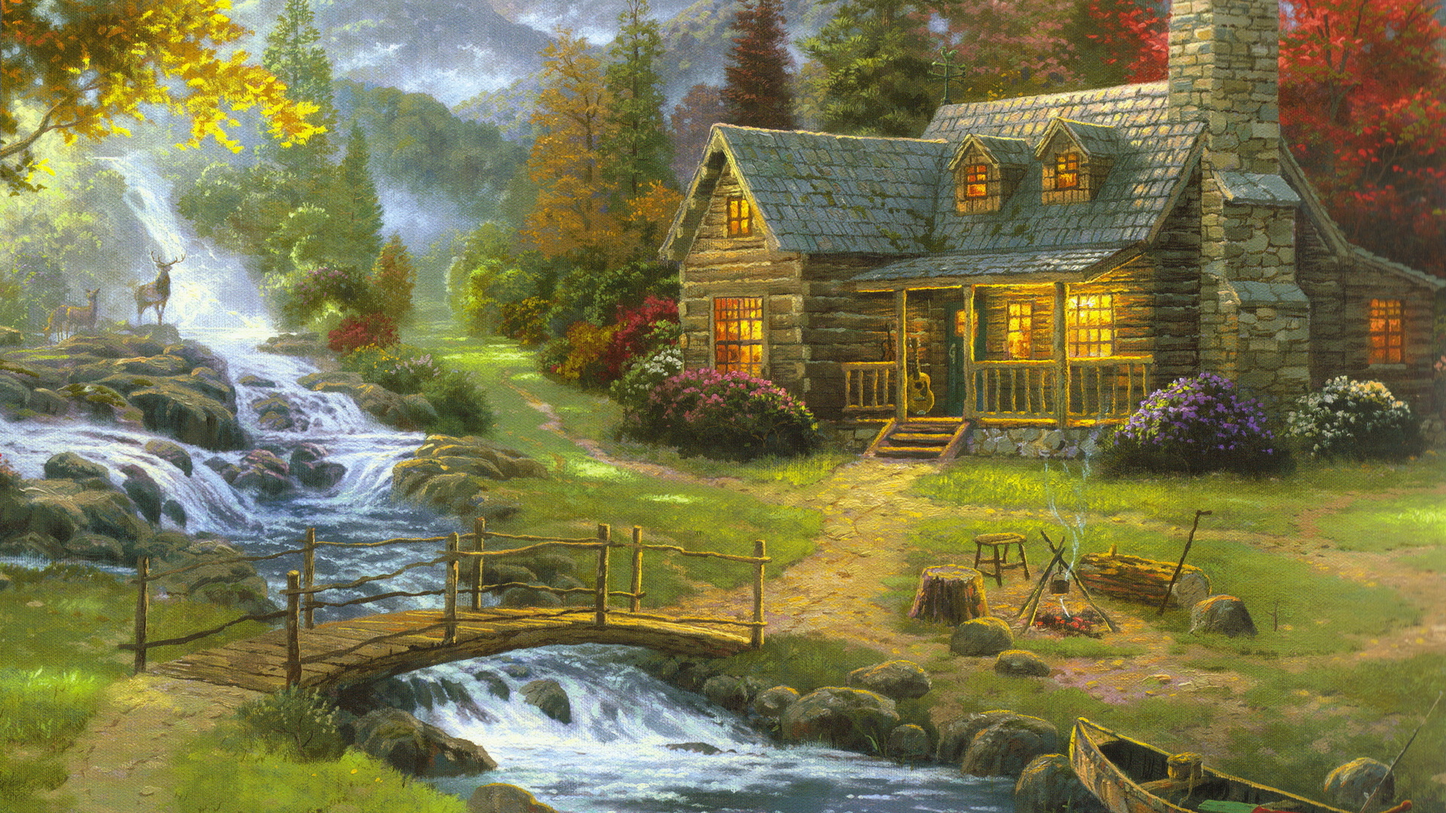
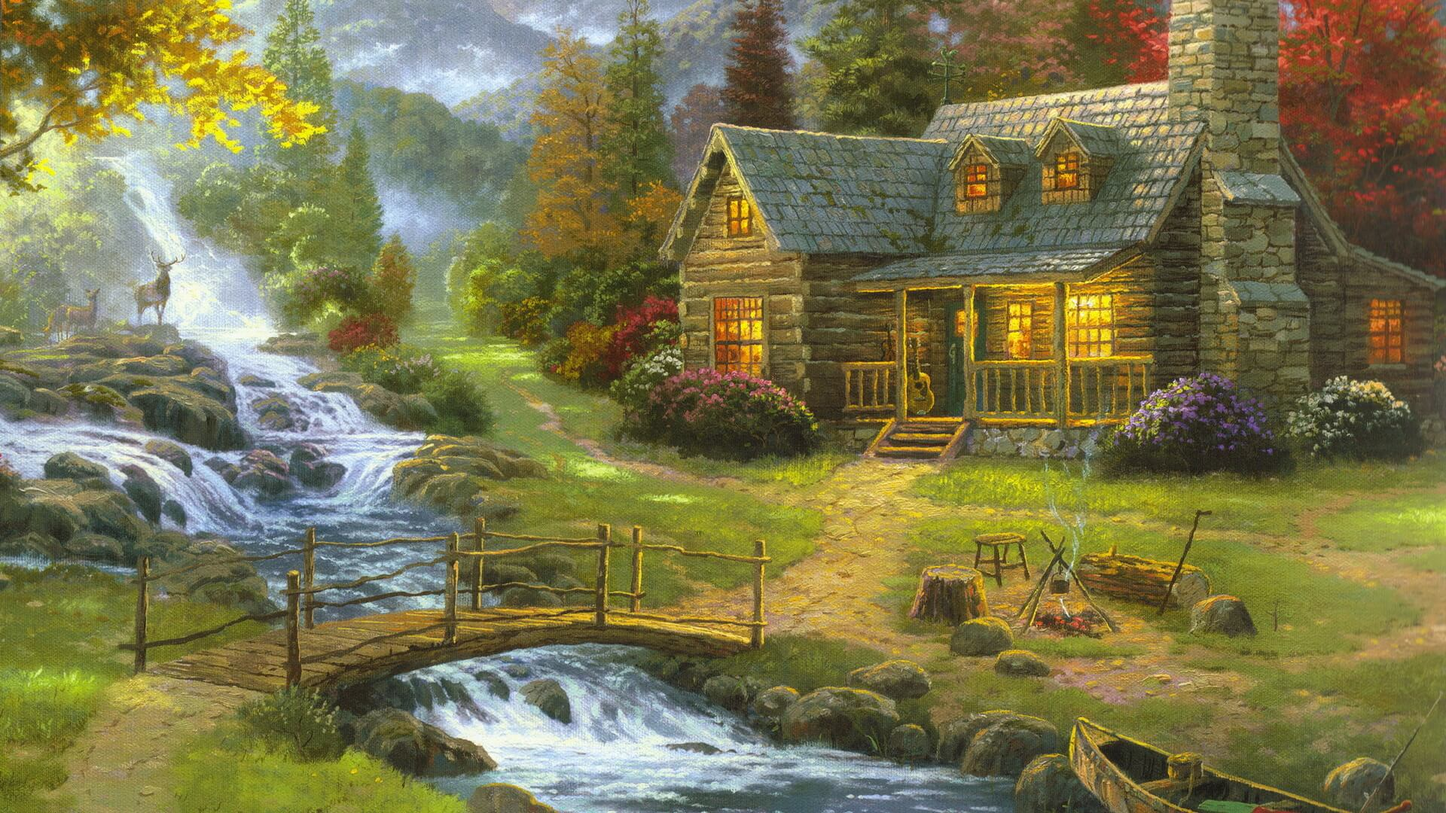
Imagenes optimizadas

diff --git a/disenio/practica12/css/hotel-big.css b/disenio/practica12/css/hotel-big.css
@@ -228,7 +228,7 @@ nav ul {
  
  
 #panel {
-	background: url("../img/pictures/main4.png");
+	background: url("../img/pictures/main4.jpg");
 	-moz-background-size: 100% 290px;
 	-o-background-size: 100% 290px;
 	-webkit-background-size: 100% 290px;
